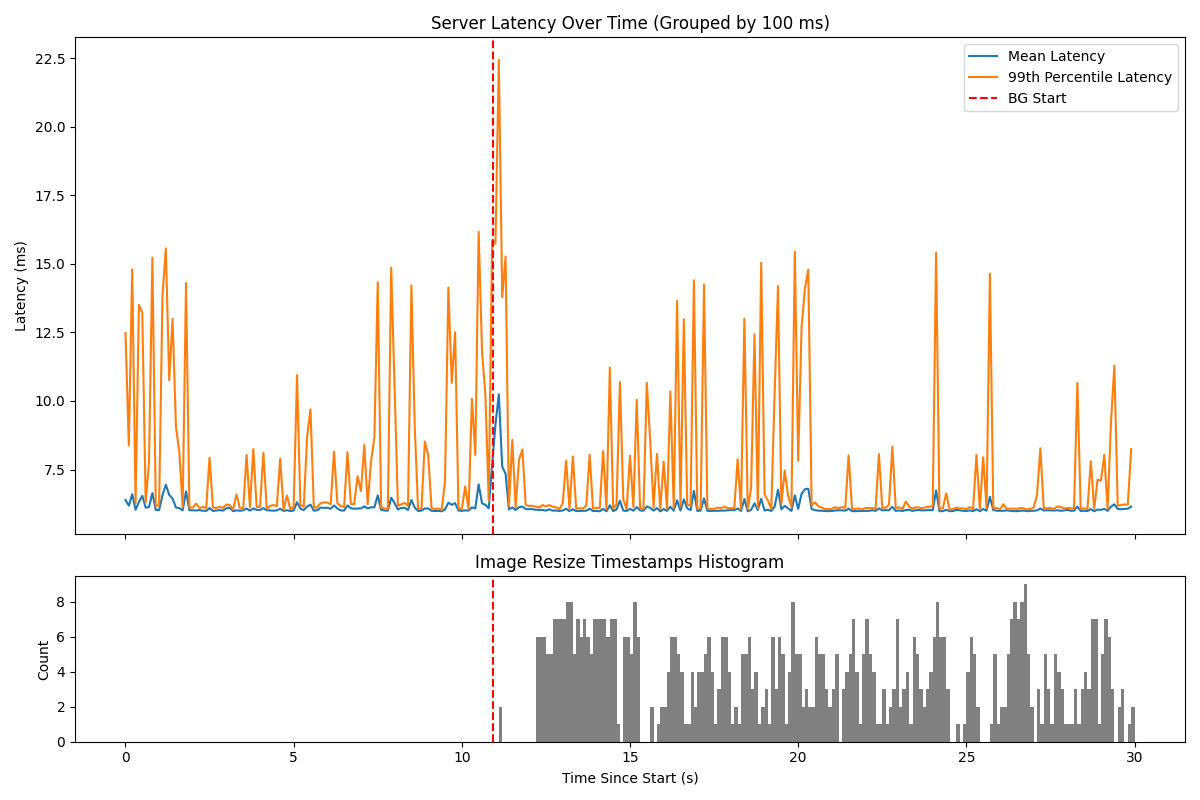
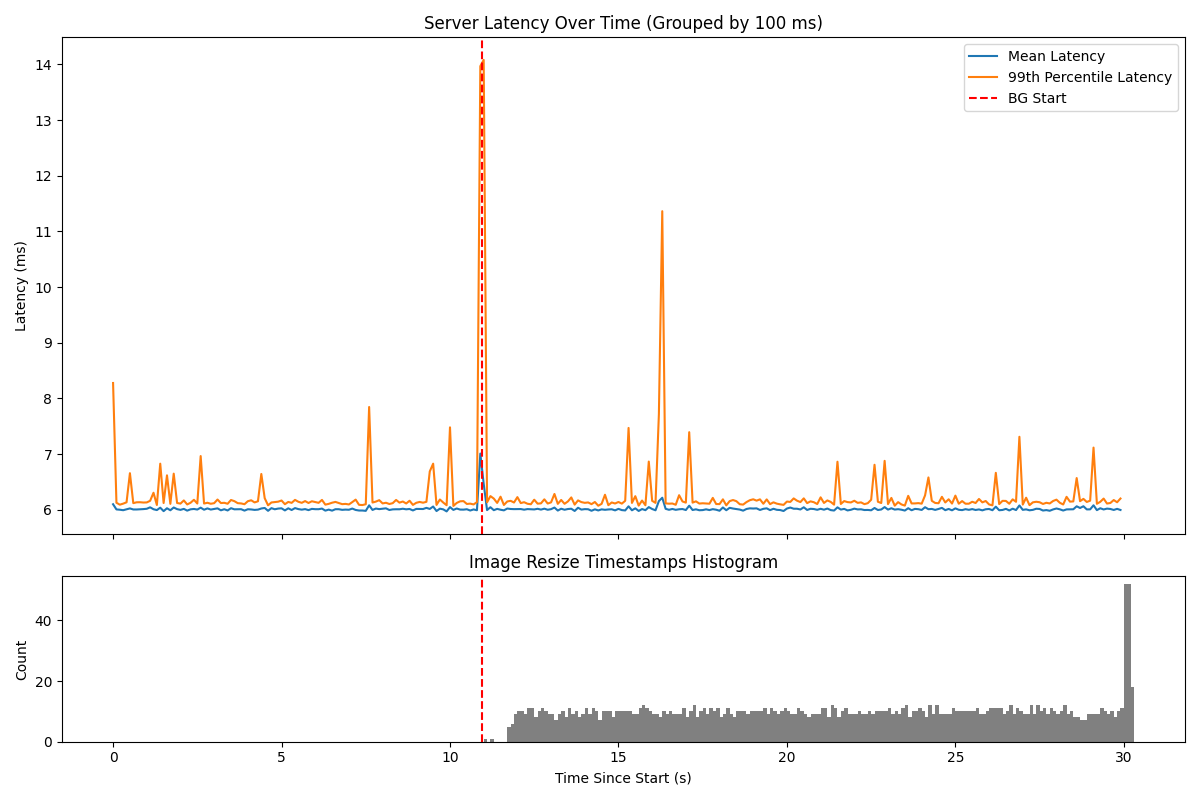
re-ran with new patch! yay. also edited flow of section 2, and added a bit more of a funnel to the top of the intro

diff --git a/smth26/problem.tex b/smth26/problem.tex
@@ -2,15 +2,19 @@
 \section{Problem}\label{s:problem}
 %-------------------------------------------------------------------------------
 
-On an empirical level, the problem is that Linux occasionally will run a BE
-process on one core, unaware that an LC process is runnable and waiting on
-another. This observation points to a problem with the \cgroups{} weight
+The problem that leads to the spike in latencies is that Linux occasionally will
+run a BE process on one core, unaware that an LC process is runnable and waiting
+on another. This observation points to a problem with the \cgroups{} weight
 interface: it is expensive to enforce weights across cores, which is why Linux
-avoids doing so. The \cgroups{} weight interface also is not good at isolating
-for another reason: it doesn't really try to. Weights are supposed to be ends of
-a spectrum, and many small weights can add up.
+avoids doing so. The \cgroups{} weight interface is also not well-suited for
+isolating for other reasons: (1) it's not meant to, weights are supposed to be
+vague and add up, and (2) weights interact with sheduling quanta in bad ways:
+the scheduler can't help but run the BE processes for a whole quantum when it's
+weight does accrue, leaving LC processes interrupted for 4 ms at a
+time.\hmng{this is my current thesis for what the flow of this section
+could/should be}
 
-\subsection{Empirical problem}
+\subsection{The problem}
 
 \begin{figure}[t]
     \centering
@@ -21,13 +25,13 @@ a spectrum, and many small weights can add up.
     }\label{fig:schedviz}
 \end{figure}
 
-We analyze perf traces of the scheduling decisions, and the failure mode we
-observe is that \textit{one core is running a BE process, while an LC process is
-waiting on another}. We visualize the trace using schedviz~\cite{TODO}; a 10ms
-outtake of the resulting image is show in \autoref{fig:schedviz}. The process
+The failure mode we observe is that \textit{one core is running a BE process,
+while an LC process is waiting on another}. We analyze perf traces of the
+scheduling decisions, and visualize the trace using schedviz~\cite{TODO}.
+\autoref{fig:schedviz} shows a 10ms outtake of the resulting image. The process
 running on each core is shown as a an oval, and queued processes are shown as
-rectangles below. The root of the undesirable behavior is clear: on core 6, the
-red process that is running the whole time is a BE process, whereas LC threads,
+rectangles below. The root of the undesirable behavior is: on core 6, the red
+process that is running the whole time is a BE process, whereas LC threads,
 shown in varying shades of blue, are queued on the other cores.
 
 The reason this happens is that Linux maintains a separate runqueue on each
@@ -40,35 +44,32 @@ one, whereas another core has queued high weight processes. This problem goes
 away when there are no BE processes, because cores try to steal work before
 going idle.
 
-\subsection{Weights across cores}
+\subsection{This is not a bug}
 
-The root of the problem goes deeper than just a poor implementation: in a
-setting of per-core runqueues where synchronization is expensive, a weight-based
-interface is at odds with machine-wide policy enforcement.
+The root of the problem goes deeper than just a poor implementation: a
+weight-based interface is at odds with machine-wide policy enforcement. In
+increasingly multi-core and multi-NUMA machines, synchronization is expensive.
+This means that the overheads of maintaining global invariants can quickly
+become prohibitive.
 
-\begin{figure}[t]
-    \centering
-    \includegraphics[width=\columnwidth]{graphs/cmp-x-numa.png}
-    \caption{the low load setting of the same experiment, running on cores
-    across two NUMA nodes}\label{fig:across-numa}
-\end{figure}
-
-% what is the experiment here? more cores? cores across NUMA nodes so it
-% migrates less?
-We see that this is the case by running the same experiment in a setting where
-synchronization is even more expensive: on cores across NUMA nodes. In
-\autoref{fig:across-numa}, we run the exact same experiment, but use cores that
-span different NUMA nodes. The graph shows more variable latencies as well as
-higher spikes. This indicates that, as expected, more synchronization points
-increases the degree to which the weights are enforced across cores. In order to
-strictly and completely enforce the weights, the scheduler would need to
-synchronize at every scheduling decision: calculating whether a given process is
-owed time globally requires knowing the total weight across all cores as well as
-the sum of time that all the processes in the group have gotten. 
+In order to strictly and globally enforce a processes weight, the scheduler
+would need to synchronize at every scheduling decision: calculating whether a
+given process is owed time globally requires knowing the total weight across all
+cores as well as the sum of time that all the processes in the group have
+gotten. At the same time, servers now have up to 8 NUMA nodes, and hundreds up
+CPUs across them~\cite{TODO}. Synchronizing across them is expensive: in a
+microbenchmark we found that even on a single NUMA node if each core takes a
+lock to read the state on the other cores at every scheduling, this already
+slows down the execution time of a simple cpu-bound loop by XX\%. This number
+goes up to YY\% across two NUMA nodes. This is not surprising, other work has
+also found that kernel lock contention is a bottleneck to performance at
+scale~\cite{TODO}\hmng{the AFaaS cgroups pool thing here}
 
 
-\subsection{Weights add up}
+\subsection{The problems with weights add up}
 
+\hmng{yes this section title is a pun, and yes I will be deleting it (jk jk\dots
+unless\dots)}
 
 \begin{figure}[t]
     \centering
@@ -77,19 +78,31 @@ the sum of time that all the processes in the group have gotten.
     workloads}\label{fig:many-be}
 \end{figure}
 
+Using very large weight differentials as an interface to isolate LC and BE is
+also bad for other reasons.
 
-Although low weights run infrequently, they still get a fair share, and in doing
-so impact the latency of the higher weight (LC) processes. A large number of BE
-workloads each with a small weight adds up to represent a significant amount of
-weight in the system, now contending directly with the LC workload. In
-\autoref{fig:many-be}, we show the mean and 99th pctile latency increase for the
-LC server when starting different numbers of BE workload, as compared to an
-uncontended baseline. As expected, as the number of BE workloads goes up, the
-impact on the latency of the LC server goes up.
+The first is that weights add up: although low weights run infrequently, they
+still get a fair share, and in doing so impact the latency of the higher weight
+(LC) processes. A large number of BE workloads each with a small weight adds up
+to represent a significant amount of weight in the system, now contending
+directly with the LC workload. We see this happen in a small microbenchmark, run
+on one core in order to ensure a setting where we know Linux enforces weights
+correctly.~\autoref{fig:many-be} shows the mean and 99th pctile latency increase
+for the LC server when starting different numbers of BE workload, as compared to
+an uncontended baseline. As expected, as the number of BE workloads goes up, the
+impact on the latency of the LC server goes up. In fact, in order avoid this,
+Kubernetes makes use of the nested structure of \cgroups{} to create a parent
+group that gets a weight of 1 and holds all the best effort containers within
+it.
 
-In order avoid this, Kubernetes makes use of the nested structure of \cgroups{}
-to create a parent group that gets a weight of 1 and holds all the best effort
-containers within it.
+The second reason that weights don't work as an interface to isolate LC from BE
+is that the just discussed small fair share interacts with the scheduling tick
+size. Barring other events such as blocking or wakeup, Linux only schedules
+every hardware tick, which is usually 4ms. That means that when a BE processes'
+turn to run does come around, it will interrupt any running LC process for
+potentially a whole 4ms. This is a large amount of for microservice workloads,
+whose SLOs are often in the low double digit or even single digit ms
+realm.~\cite{TODO}
 
 
 

diff --git a/smth26/intro.tex b/smth26/intro.tex
@@ -3,14 +3,21 @@
 \label{s:intro}
 %-------------------------------------------------------------------------------
 
-Providers like best effort (BE) workloads, because these allow them to get high
-utilization by oversubscribing their machines without compromising any
-guarantees: Under high load, latency critical (LC) workloads run without
-impediment, but in low load BE runs opportunistically and the servers maintain
-high utilization.\hmng{it's not just providers though, b/c what about people
-running their own kubernetes deployment... but it's also not really developers}
-This is why for example, in recent measures, around XX\% of the workload running
-in YY was BE.
+Many modern scheduling systems separate the work they run into classes, that
+include one class for \textit{latency critical} (LC) work, which has resource
+requirements, and one class for \textit{best effort} (BE) work, which doesn't.
+The scheduler uses these categories when deciding what to schedule, and what to
+kill under resource pressre. This includes distributed schedulers, \eg{}
+Borg\cite{TODO} or Kubernetes\cite{TODO}, and single machine schedulers, \eg{}
+Caladan\cite{TODO}. 
+
+Providers like BE workloads, because these allow them to get high utilization by
+oversubscribing their machines without compromising any guarantees: Under high
+load, latency critical (LC) workloads run without impediment, but in low load BE
+runs opportunistically and the servers maintain high utilization.\hmng{it's not
+just providers though, b/c what about people running their own kubernetes
+deployment... but it's also not really developers} This is why for example, in
+recent measures, around XX\% of the workload running in YY was BE.
 
 Dynamically reallocating CPUs as the load changes is challenging: the scheduler
 needs to maintain low latencies for LC requests by ensuring that when the LC

diff --git a/smth26/eval.tex b/smth26/eval.tex
@@ -3,13 +3,14 @@
 \label{s:eval}
 %-------------------------------------------------------------------------------
 
-All the graphs in this paper run on Linux version 6.14.2, the baseline version
-that our patch builds on. In our evaluation, we explore XX questions:
+In our evaluation, we explore the following questions:
 \begin{enumerate}
-    \item Does the patch create the categorical split we wanted on a mechanistic level?
     \item Does the patch isolate LC from BE workloads for real applications?
     \item How much does the patch cost?
 \end{enumerate}
+
+All the graphs in this paper run on Linux version 6.14.2, the baseline version
+that our patch builds on.
 
 
 \subsection{Verifying patch behavior}
